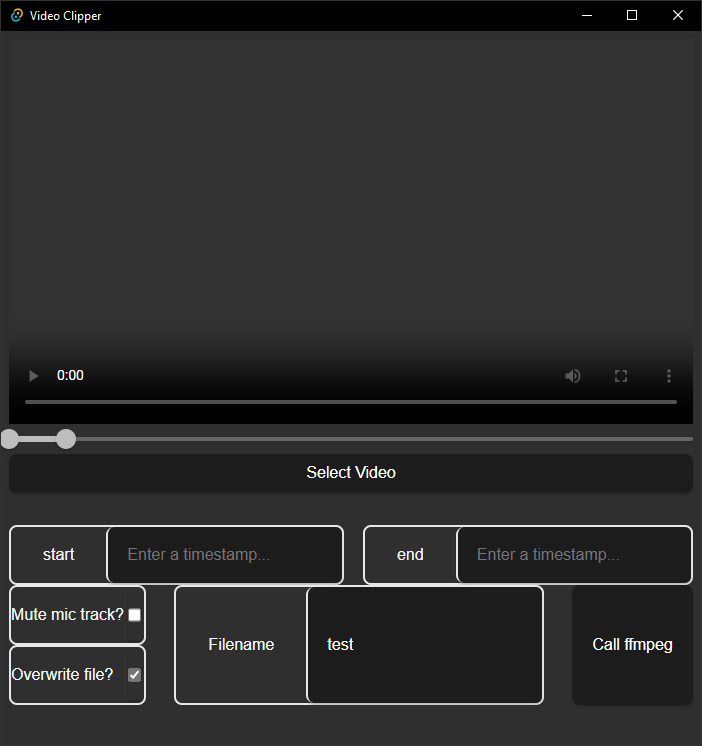
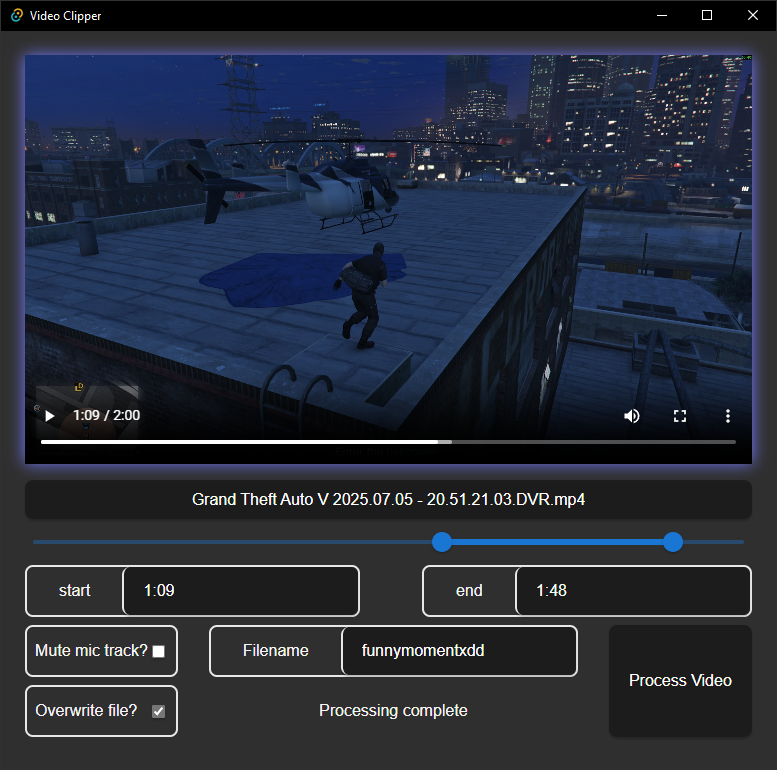
Move Filename Label

diff --git a/src/App.tsx b/src/App.tsx
@@ -95,7 +95,7 @@ function App() {
                     pickFile();
                 }}
             >
-                Select Video
+                {inputFileName.length > 0 ? inputFileName : "Select Video"}
             </button>
             <div className='slider'>
                 <MinimumDistanceSlider
@@ -106,8 +106,6 @@ function App() {
                     seekToTime={seekToTime}
                 />
             </div>
-            {/* File name */}
-            <p>{inputFileName}</p>
             <section className="row">
                 {/* Start time input */}
                 <TimeInput

diff --git a/src/App.css b/src/App.css
@@ -45,7 +45,7 @@
 
 .slider {
   display: flex;
-  margin: 1em;
+  margin: 0.5em;
   margin-bottom: 0;
 }
 
